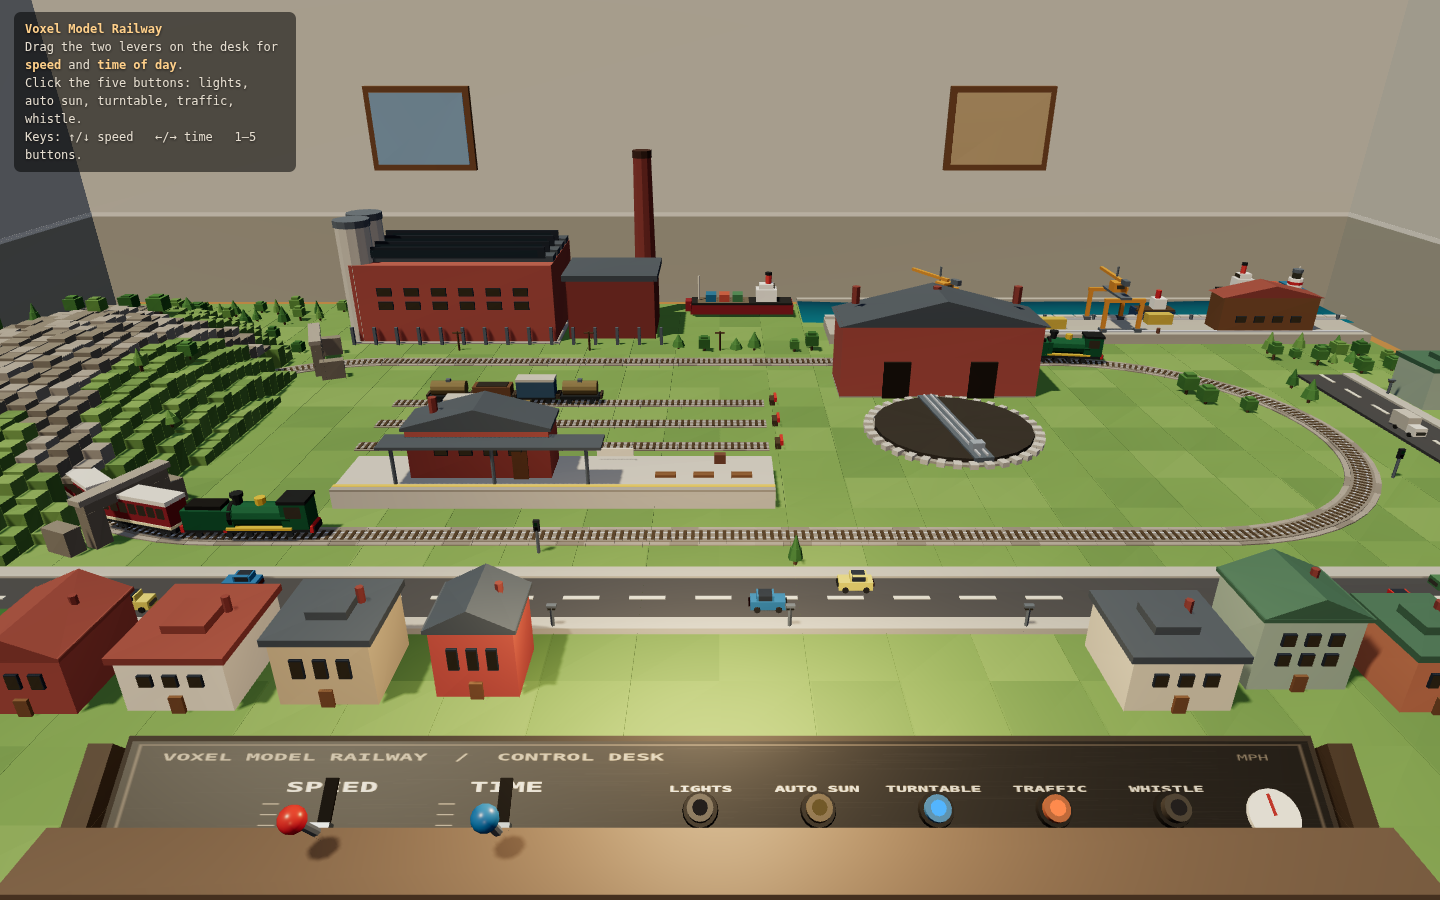
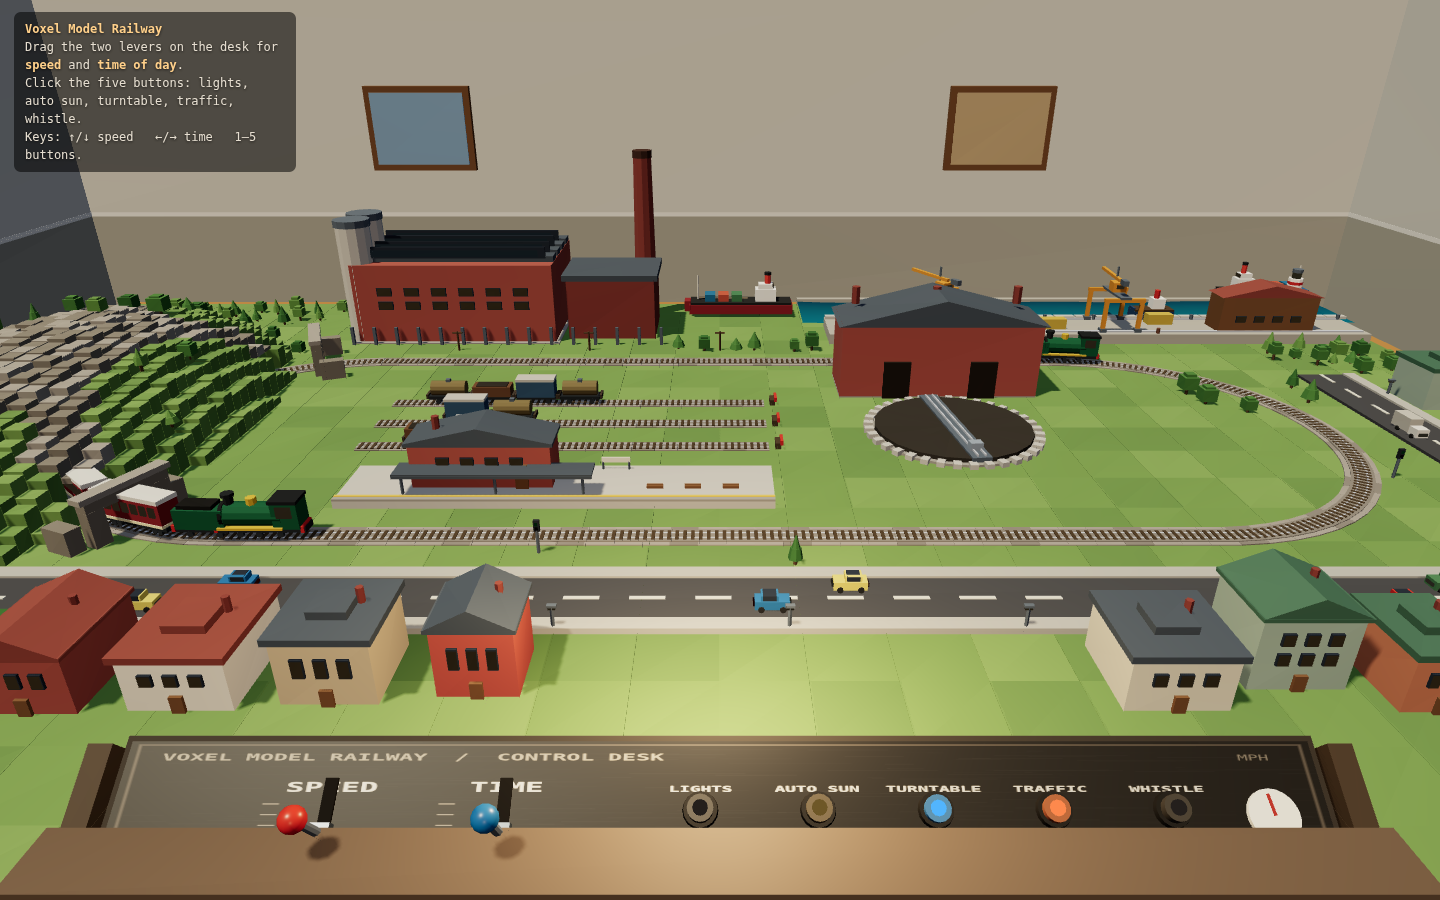
Bring the station down to scale
The platform stood about four scale metres above the railhead and the
canopy floated twelve metres up. Platform, canopy, posts, benches and the
name board are now sized against the loco standing beside them.

Claude-Session: https://claude.ai/code/session_01WYeDXh1jYabUsqYZKgNMzc

diff --git a/src/scenery.js b/src/scenery.js
@@ -129,38 +129,41 @@ function windowGrid(vb, lit, x, y, z, w, h, cols, rows, face, out = 1, glowCol =
 function station(vb, lit) {
   const S = ZONES.station;
   const cz = (S.z0 + S.z1) / 2, d = S.z1 - S.z0;
-  // platform
-  vb.box((S.x0 + S.x1) / 2, 0.021, cz, S.x1 - S.x0, 0.042, d, C.concrete, { jitter: 0.05 });
-  vb.box((S.x0 + S.x1) / 2, 0.043, S.z1 - 0.006, S.x1 - S.x0, 0.004, 0.012, C.concreteDk);
-  // yellow safety line along the platform edge facing the main line
-  vb.box((S.x0 + S.x1) / 2, 0.0435, S.z1 - 0.018, S.x1 - S.x0, 0.003, 0.010, 0xd9b24a);
+  const cxS = (S.x0 + S.x1) / 2, wS = S.x1 - S.x0;
+  const PH = 0.022;                       // platform height: about a metre above the railhead
+
+  vb.box(cxS, PH / 2, cz, wS, PH, d, C.concrete, { jitter: 0.05 });
+  vb.box(cxS, PH + 0.002, S.z1 - 0.005, wS, 0.004, 0.010, C.concreteDk);
+  vb.box(cxS, PH + 0.003, S.z1 - 0.014, wS, 0.003, 0.007, 0xd9b24a);   // safety line
 
   // station building, set back from the platform edge
   const bx = -0.44, bw = 0.26, bd = 0.085;
   const bz = S.z0 + bd / 2 + 0.010;
-  const by = 0.042;
-  vb.box(bx, by + 0.048, bz, bw, 0.096, bd, C.brick, { jitter: 0.06 });
-  vb.box(bx, by + 0.098, bz, bw + 0.012, 0.006, bd + 0.012, C.roofSlate);   // eaves
-  vb.gable(bx, by + 0.101, bz, bw + 0.012, 0.036, bd + 0.012, C.roofSlate);
-  windowGrid(vb, lit, bx, by + 0.058, bz + bd / 2 + 0.002, 0.18, 0.038, 4, 1, 'z');
-  vb.box(bx + 0.075, by + 0.028, bz + bd / 2 + 0.003, 0.028, 0.055, 0.006, C.timber);
-  vb.cyl(bx - 0.085, by + 0.128, bz, 0.008, 0.030, C.brickDark, 6);
+  const by = PH;
+  vb.box(bx, by + 0.042, bz, bw, 0.084, bd, C.brick, { jitter: 0.06 });
+  vb.box(bx, by + 0.087, bz, bw + 0.012, 0.006, bd + 0.012, C.roofSlate);
+  vb.gable(bx, by + 0.090, bz, bw + 0.012, 0.030, bd + 0.012, C.roofSlate);
+  windowGrid(vb, lit, bx, by + 0.052, bz + bd / 2 + 0.002, 0.18, 0.032, 4, 1, 'z');
+  vb.box(bx + 0.075, by + 0.024, bz + bd / 2 + 0.003, 0.024, 0.048, 0.006, C.timber);
+  vb.cyl(bx - 0.085, by + 0.112, bz, 0.007, 0.028, C.brickDark, 6);
 
-  // canopy over the platform on slim posts (clear of the loading gauge)
-  vb.box(bx + 0.03, by + 0.080, S.z1 - 0.038, 0.40, 0.005, 0.060, C.roofSlate);
-  for (const px of [bx - 0.15, bx + 0.03, bx + 0.20]) {
-    vb.cyl(px, by + 0.040, S.z1 - 0.030, 0.0035, 0.080, C.steelDark, 6);
+  // canopy over the platform, on slim posts clear of the loading gauge
+  vb.box(bx + 0.03, by + 0.046, S.z1 - 0.036, 0.36, 0.004, 0.052, C.roofSlate);
+  vb.box(bx + 0.03, by + 0.043, S.z1 - 0.011, 0.36, 0.006, 0.004, C.roofSlate); // valance
+  for (const px of [bx - 0.14, bx + 0.03, bx + 0.19]) {
+    vb.cyl(px, by + 0.022, S.z1 - 0.030, 0.0028, 0.044, C.steelDark, 6);
   }
-  // benches, lamps, a name board
-  for (const px of [-0.10, -0.03, 0.04]) {
-    vb.box(px, 0.050, S.z1 - 0.052, 0.038, 0.005, 0.014, C.timber);
-    vb.box(px, 0.046, S.z1 - 0.058, 0.038, 0.014, 0.004, C.timber);
+  // benches, a barrow and a name board
+  for (const px of [-0.12, -0.05, 0.02]) {
+    vb.box(px, PH + 0.007, S.z1 - 0.048, 0.030, 0.003, 0.009, C.timber);
+    vb.box(px, PH + 0.005, S.z1 - 0.052, 0.030, 0.009, 0.003, C.timber);
   }
-  // luggage and a name board
-  vb.box(0.00, 0.052, S.z0 + 0.030, 0.022, 0.018, 0.014, 0x6f4a3a, { jitter: 0.1 });
-  vb.box(-0.20, 0.060, S.z0 + 0.020, 0.070, 0.016, 0.004, C.plaster);
-  reg('building', 'station', S.x0, S.x1, S.z0, S.z1, 0, 0.25);
-  return { lampSpots: [[-0.20, S.z1 - 0.03], [0.10, S.z1 - 0.03]] };
+  vb.box(-0.30, PH + 0.008, S.z0 + 0.026, 0.026, 0.016, 0.012, 0x6f4a3a, { jitter: 0.1 });
+  vb.box(-0.20, PH + 0.020, S.z0 + 0.016, 0.055, 0.011, 0.003, C.plaster);
+  for (const px of [-0.225, -0.175]) vb.cyl(px, PH + 0.008, S.z0 + 0.016, 0.0022, 0.016, C.steelDark, 5);
+
+  reg('building', 'station', S.x0, S.x1, S.z0, S.z1, 0, 0.16);
+  return { lampSpots: [] };
 }
 
 function engineShed(vb, lit) {

diff --git a/README.md b/README.md
@@ -12,6 +12,8 @@ the whistle are produced at runtime.
 
 ![The same layout after dark](docs/screenshot-night.png)
 
+![The station, at platform level](docs/screenshot-station.png)
+
 ## Running it
 
 ```
